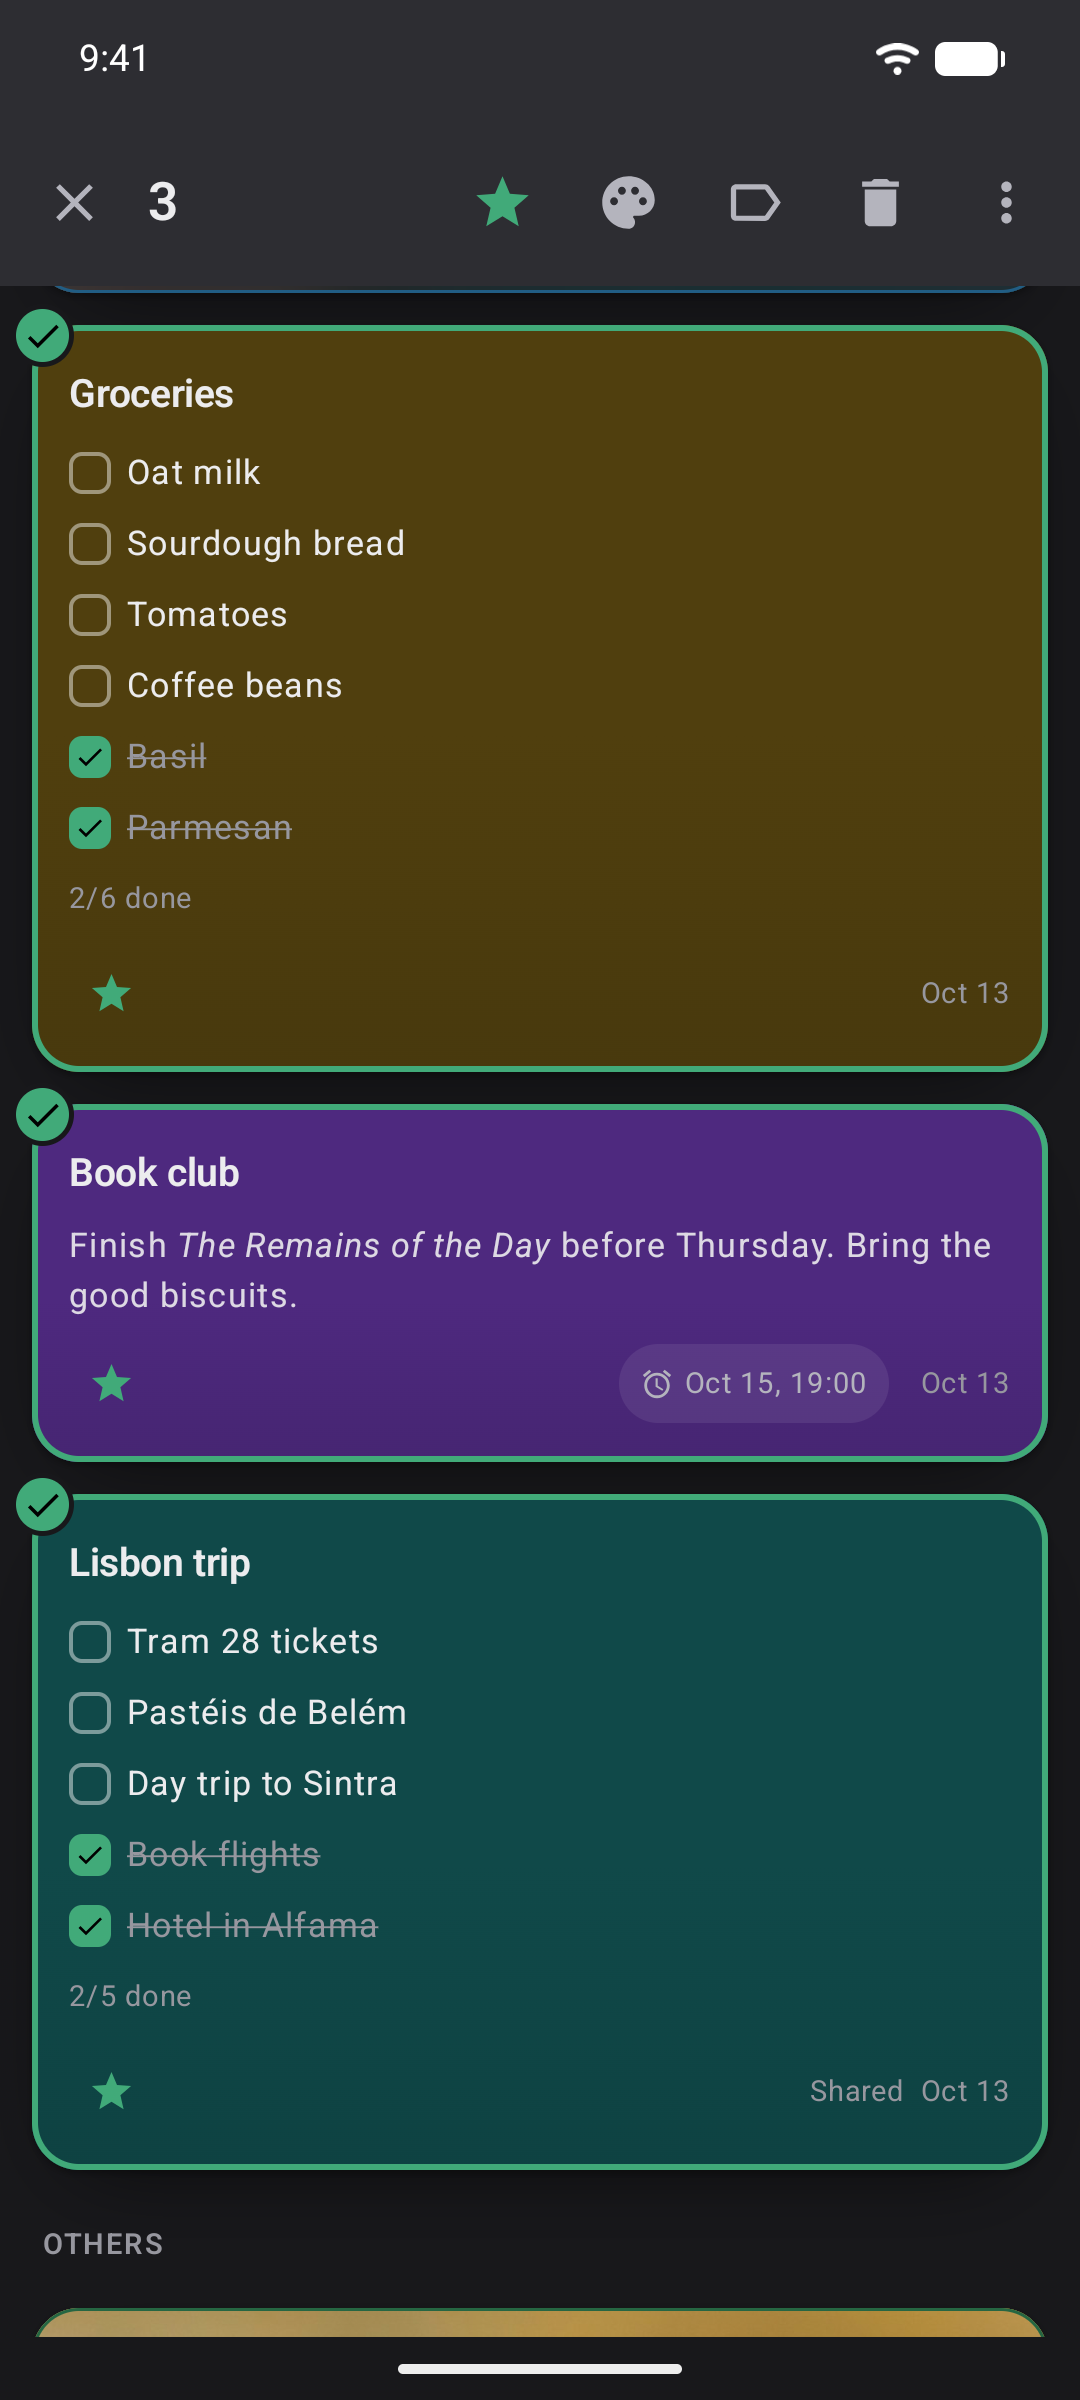
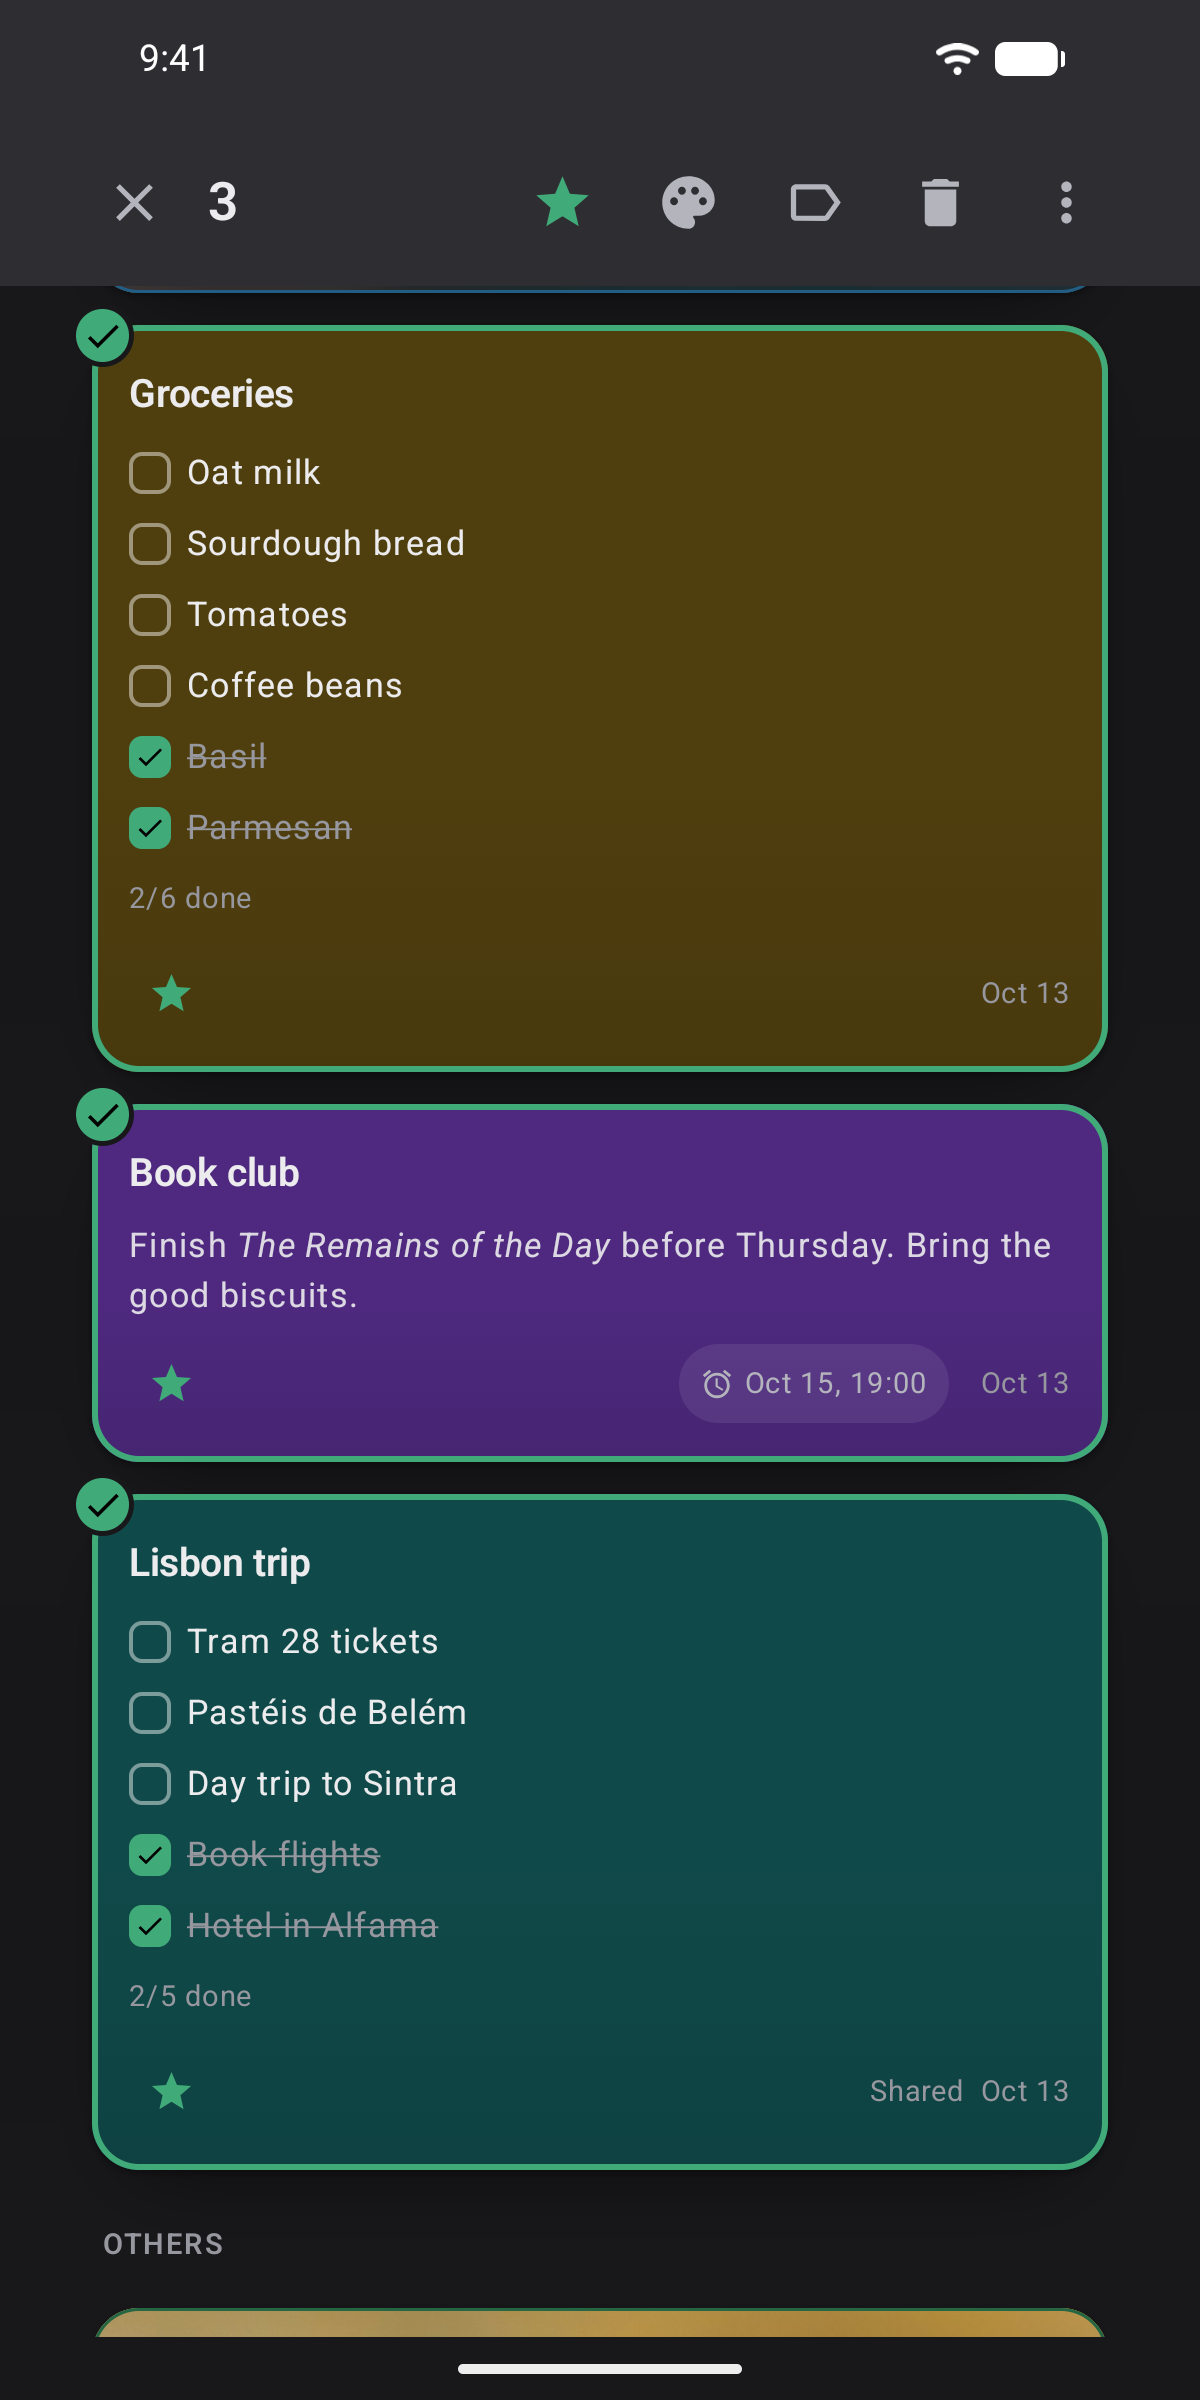
docs: widen the phone screenshots to 1200x2400 for Google Play
Play takes no screenshot longer than 2:1, and the emulator's are 9:20.
finish.py now widens each phone shot by repeating its outermost columns, so
every screen keeps its own margin in its own theme and nothing on it is
scaled. The nine screenshots and the Unraid copy are run through it again.

diff --git a/scripts/screenshots/finish.py b/scripts/screenshots/finish.py
@@ -11,6 +11,11 @@ without an alpha channel and losslessly optimised: F-Droid and the README show t
 and a screencap carries an alpha channel that nothing uses. The Unraid template links two of them
 under names of their own, so those are written as byte-for-byte copies.
 
+Phone shots are then widened from the emulator's 1080x2400 to 1200x2400, because Google Play takes
+no screenshot longer than 2:1. The 60 pixels added on each side repeat the screen's outermost
+column, row by row, so each screen keeps its own margin in its own theme (the status bar, a note's
+colour, the wallpaper) and nothing on it is scaled. F-Droid and the README show the same files.
+
 Needs Pillow, the same as docs/brand/render_feature_graphic.py.
 """
 import sys
@@ -24,19 +29,37 @@ PHONE = REPO / "fastlane/metadata/android/en-US/images/phoneScreenshots"
 
 WEB_SIZE = (2880, 1800)
 PHONE_SIZE = (1080, 2400)
+# What a phone shot is widened to: Play's longest side may be at most twice the shortest.
+PHONE_STORE_WIDTH = 1200
 WEB_NAMES = ["web-notes-dark.png", "web-notes-light.png", "web-editor-dim.png"]
 PHONE_NAMES = [f"{n}.png" for n in range(1, 10)]
 # What deploy/keepit.unraid.xml links, and the screenshot each is a copy of.
 UNRAID_COPIES = {"screenshot_1.png": IMAGES / "web-notes-dark.png", "screenshot_phone.png": PHONE / "1.png"}
 
 
-def file_in(source, target, size):
+def widen(image, width):
+    """`image` centred in `width`, its first and last columns repeated out to the new edges."""
+    left = (width - image.width) // 2
+    right = width - image.width - left
+    wide = Image.new("RGB", (width, image.height))
+    wide.paste(image, (left, 0))
+    edge = Image.Resampling.NEAREST
+    wide.paste(image.crop((0, 0, 1, image.height)).resize((left, image.height), edge), (0, 0))
+    last = image.crop((image.width - 1, 0, image.width, image.height)).resize((right, image.height), edge)
+    wide.paste(last, (left + image.width, 0))
+    return wide
+
+
+def file_in(source, target, size, width):
     image = Image.open(source)
     if image.size != size:
         raise SystemExit(f"{source}: {image.size[0]}x{image.size[1]}, expected {size[0]}x{size[1]}")
     if "A" in image.getbands() and image.getchannel("A").getextrema() != (255, 255):
         raise SystemExit(f"{source}: has transparent pixels")
-    image.convert("RGB").save(target, optimize=True)
+    image = image.convert("RGB")
+    if width != image.width:
+        image = widen(image, width)
+    image.save(target, optimize=True)
     print(f"{target.relative_to(REPO)}  {target.stat().st_size:,} bytes")
 
 
@@ -44,18 +67,21 @@ def main():
     if len(sys.argv) != 2:
         raise SystemExit(__doc__)
     shots = Path(sys.argv[1])
-    halves = [(shots / "web", WEB_NAMES, IMAGES, WEB_SIZE), (shots / "phone", PHONE_NAMES, PHONE, PHONE_SIZE)]
+    halves = [
+        (shots / "web", WEB_NAMES, IMAGES, WEB_SIZE, WEB_SIZE[0]),
+        (shots / "phone", PHONE_NAMES, PHONE, PHONE_SIZE, PHONE_STORE_WIDTH),
+    ]
     present = [half for half in halves if half[0].is_dir()]
     if not present:
         raise SystemExit(f"{shots}: no web/ and no phone/ folder")
     # All or nothing per half: a missing file stops before anything is written.
-    for folder, names, _, _ in present:
+    for folder, names, *_ in present:
         missing = [name for name in names if not (folder / name).is_file()]
         if missing:
             raise SystemExit(f"{folder}: missing {', '.join(missing)}")
-    for folder, names, target, size in present:
+    for folder, names, target, size, width in present:
         for name in names:
-            file_in(folder / name, target / name, size)
+            file_in(folder / name, target / name, size, width)
     for name, original in UNRAID_COPIES.items():
         (IMAGES / name).write_bytes(original.read_bytes())
         print(f"images/{name}  = {original.relative_to(REPO)}")

diff --git a/scripts/screenshots/README.md b/scripts/screenshots/README.md
@@ -32,8 +32,10 @@ change to the app.
 | `fastlane/…/phoneScreenshots/1.png` to `9.png` | The Android app, see below | F-Droid; README shows 1, 2, 3, 6, 7 |
 | `fastlane/…/featureGraphic.png` | The banner | F-Droid (`docs/brand/README.md` has how) |
 
-Web screenshots are 2880×1800 (a 1440×900 window at twice the density), phone ones 1080×2400,
-all without an alpha channel. `finish.py` refuses any other size.
+Web screenshots are 2880×1800 (a 1440×900 window at twice the density), phone ones are taken at
+1080×2400, all without an alpha channel. `finish.py` refuses any other size, and widens the phone
+ones to 1200×2400 by repeating their outermost columns: Google Play takes no screenshot longer than
+2:1, and F-Droid and the README show the same files.
 
 ## 1. A server with the demo account
 

diff --git a/CHANGELOG.md b/CHANGELOG.md
@@ -24,6 +24,7 @@ app. Earlier versions are on the [releases page](https://github.com/Richy1989/ke
   stored and shared on a keepIT server, and what to do about unwanted sharing. Creating an account
   says it accepts them, and About links them, on the web and on Android.
 - The privacy policy now gives an email address for questions: support@hyperstarit.org.
+- The Android screenshots are 1200×2400, the shape Google Play accepts.
 
 ## 1.0.0
 
